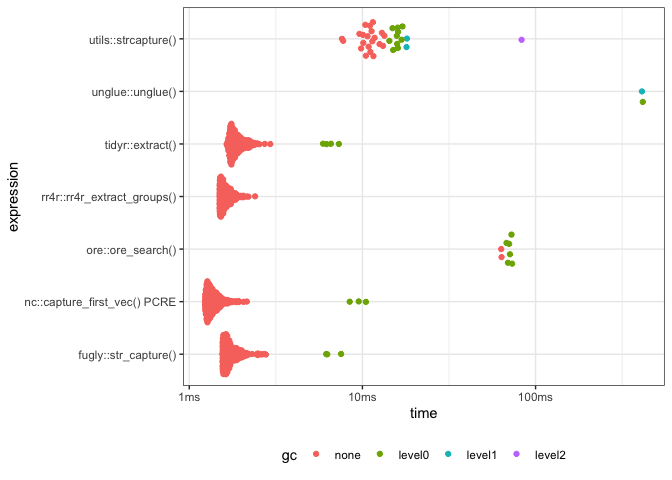
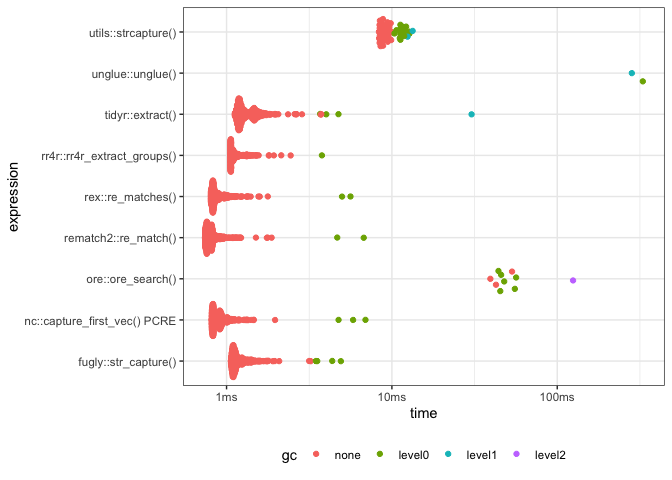
Add additional benchmarks for rex and rematch2
These packages seem relevant to the problem at hand.

Also added a check function, benchmarking without verifying the results
are consistent is extremely dangerous.

diff --git a/README.md b/README.md
@@ -161,6 +161,8 @@ library(rr4r)
 library(unglue)
 library(ggplot2)
 library(tidyr)
+library(rematch2)
+library(rex)
 
 # meaningless strings for benchmarking
 N <- 1000
@@ -176,7 +178,11 @@ res <- bench::mark(
    `rr4r::rr4r_extract_groups()` = rr4r::rr4r_extract_groups(string, "name:(?P<name>.*?) age:(?P<age>\\d+)"),
   `nc::capture_first_vec() PCRE` = nc::capture_first_vec(string, "Information name:", name=".*?", " age:", age="\\d+", engine = 'PCRE'),
   `tidyr::extract()` = tidyr::extract(data.frame(x = string), x, into = c('name', 'age'), regex = 'name:(.*?) age:(\\d+)'),
-  check = FALSE
+  `rematch2::re_match()` = rematch2::re_match(string, "name:(?<name>.*?) age:(?<age>\\d+)")[c(1, 2)],
+  `rex::re_matches()` = rex::re_matches(string, rex("name:", capture(name = "name", anything), " age:", capture(name = "age", digits))),
+  check = function(x, y) {
+    all.equal(as.data.frame(x), as.data.frame(y))
+  }
 )
 ```
 
@@ -193,6 +199,8 @@ res <- bench::mark(
     Note: I couldn’t get this to work sanely.
 -   [rr4f](https://github.com/yutannihilation/rr4r) rust regex engine
 -   [nc](https://github.com/tdhock/nc)
+-   [rematch2](https://github.com/r-lib/rematch2)
+-   [rex](https://github.com/kevinushey/rex)
 
 ## Acknowledgements
 
